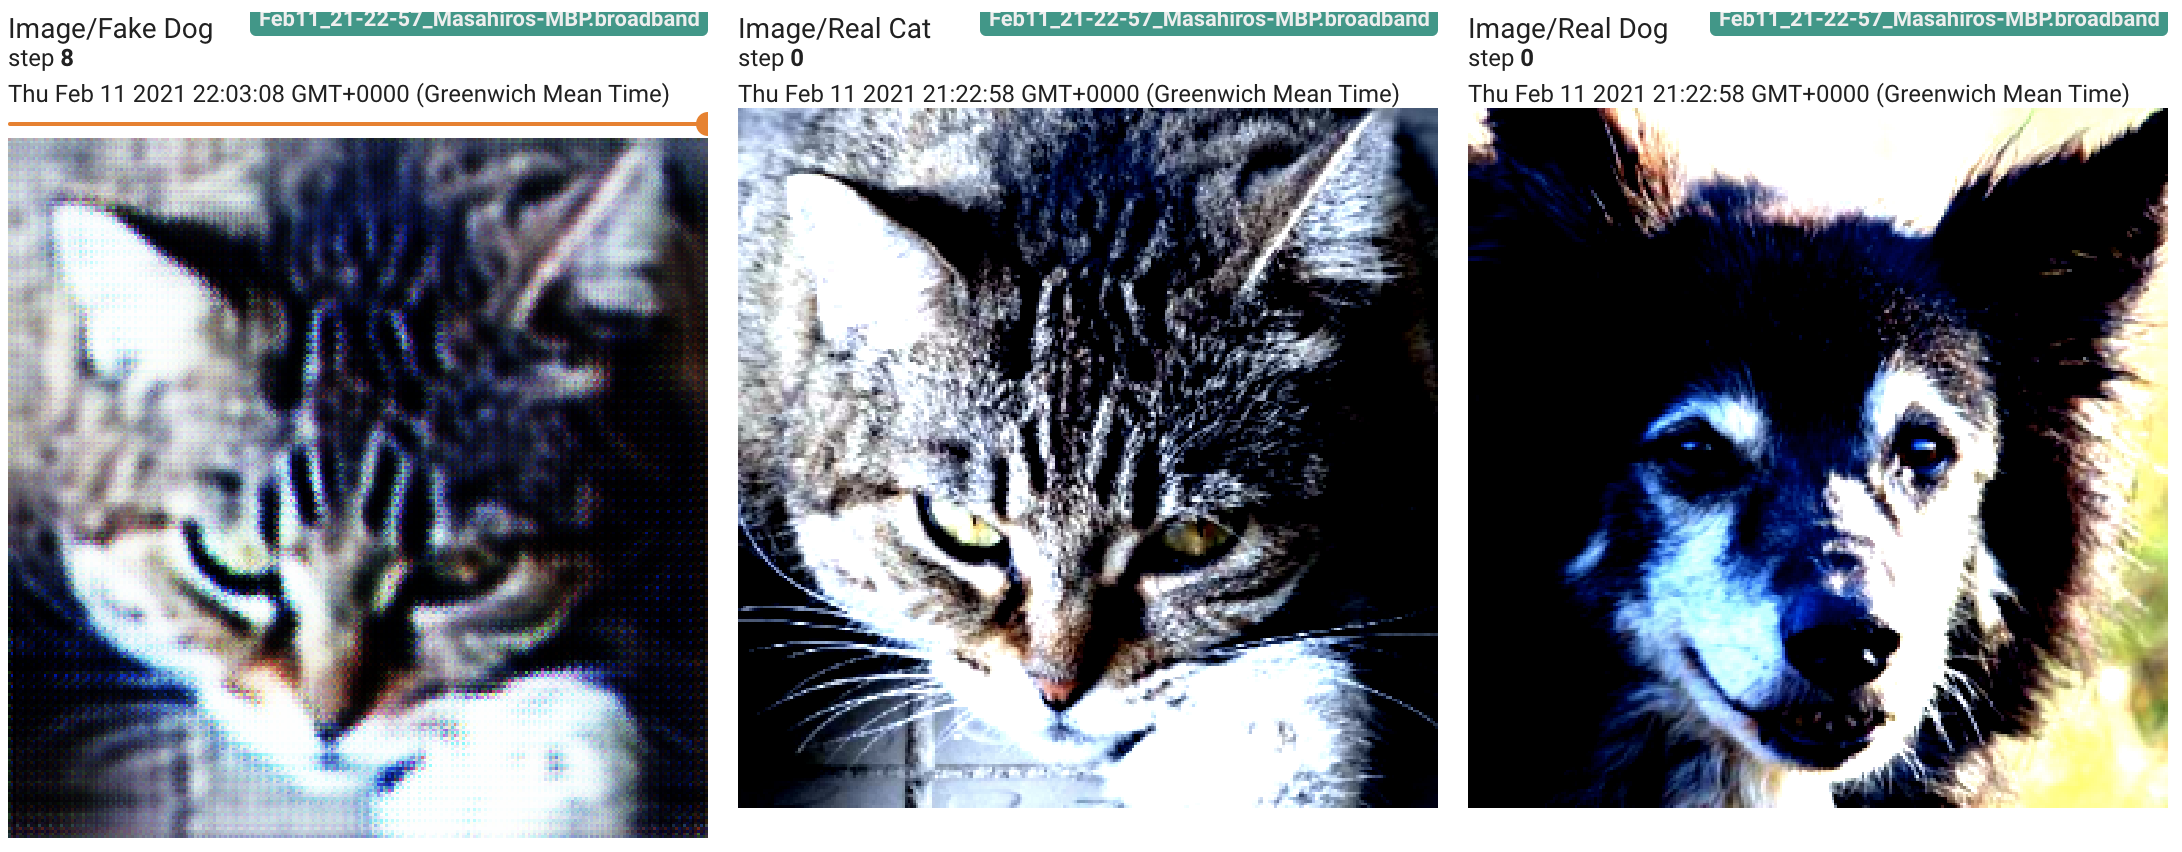
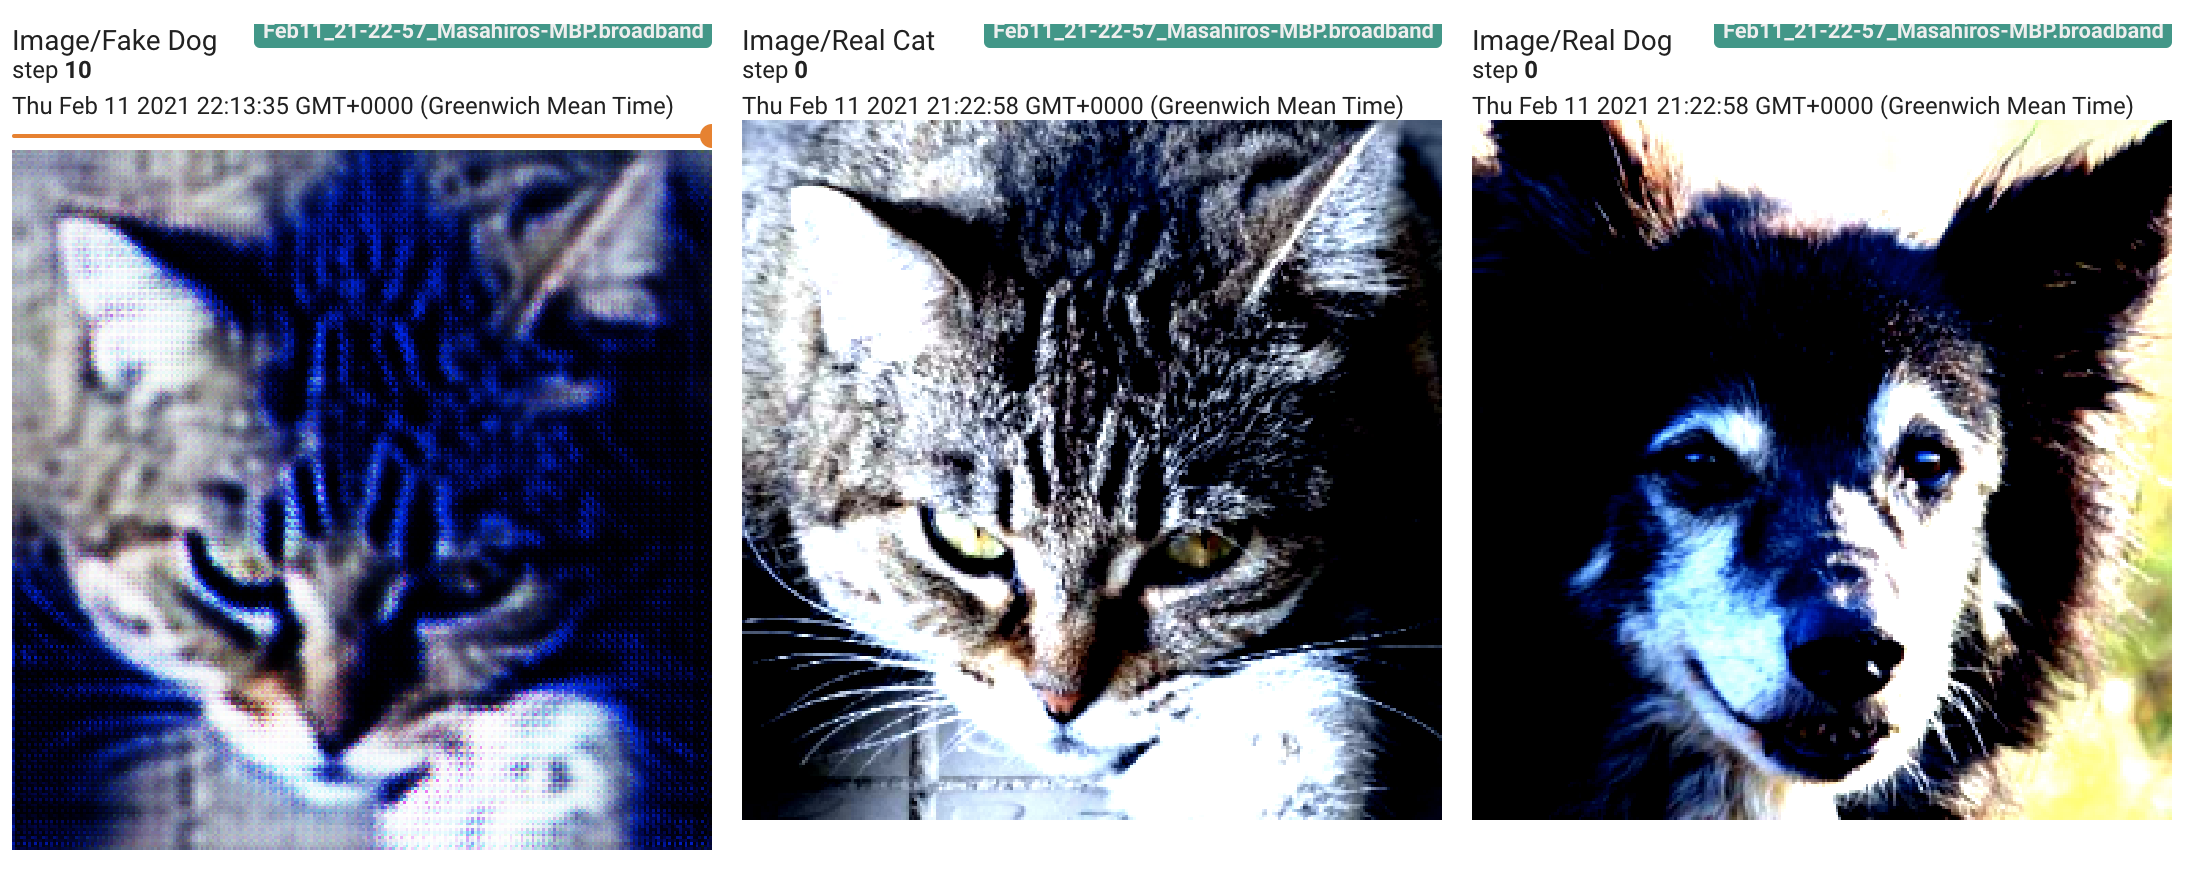
Update sample output and added reference

diff --git a/README.md b/README.md
@@ -1,6 +1,8 @@
 # Contrastive_Image_Translation
 PyTorch Implementation of the Contrastive Unpaired Image Translation framework
 
+Taesung Park, Alexei A. Efros, Richard Zhang, and JunYan Zhu. Contrastive Learning for Unpaired Image-to-Image Translation. arXiv:2007.15651 [cs], July 2020.
+
 # WORK IN PROGRESS
 
 ![alt text](https://github.com/hayashimasa/Contrastive_Image_Translation/blob/master/graphs/sample_output.png?raw=true)
